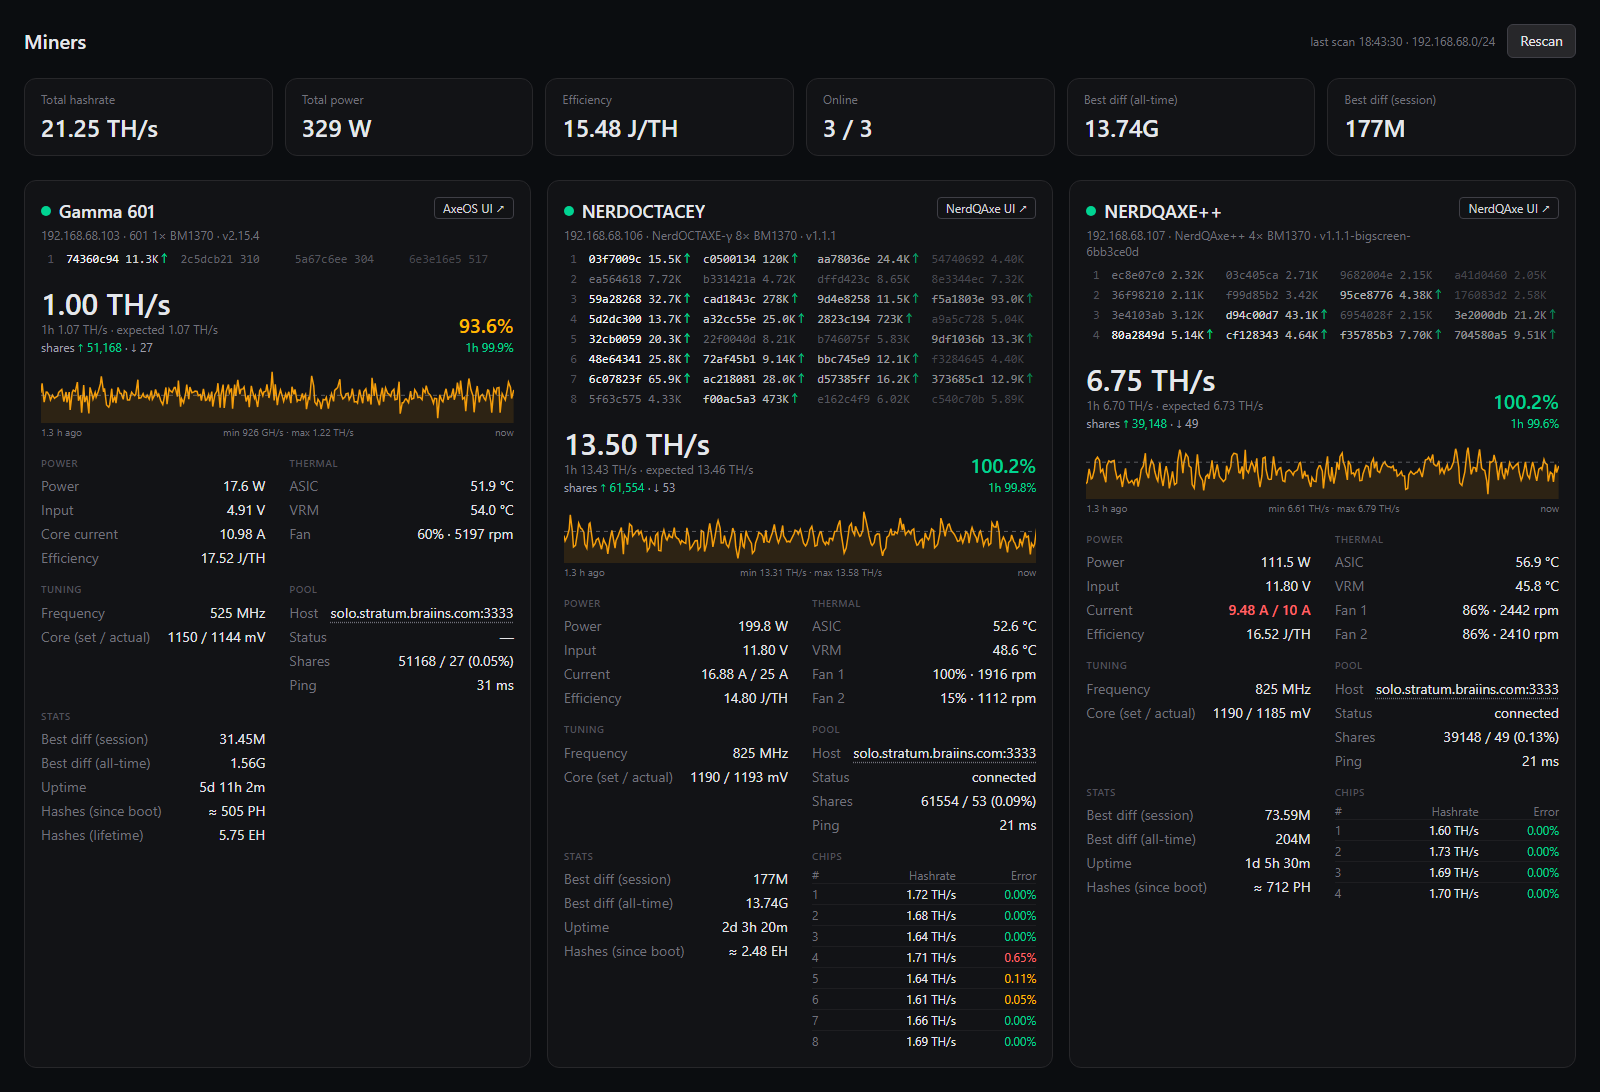
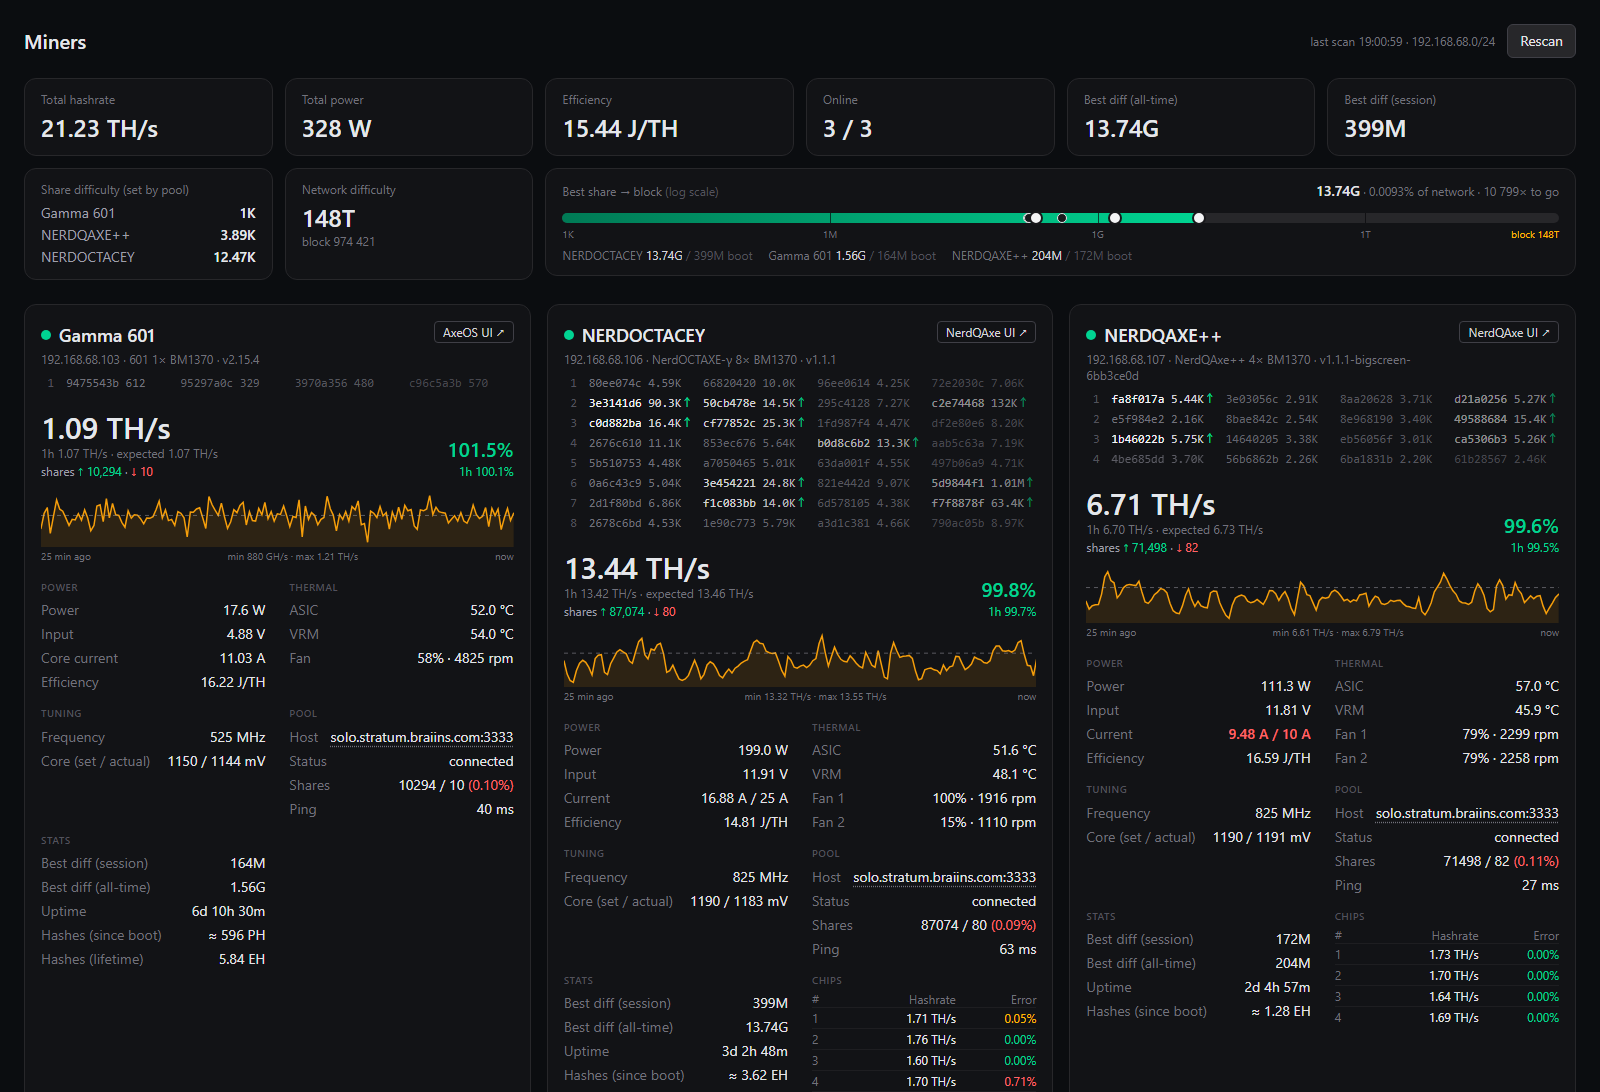
Per-miner share difficulty, AxeOS pool status, red reject counts
- Share difficulty tile lists each miner's pool-assigned target instead of a bare range.
- AxeOS 2.x pool status from poolConnectionInfo (it has no connected flag).
- Rejected share count and reject percentage shown in red when non-zero.
- README: difficulty row in the feature list, refreshed screenshots.

diff --git a/app/page.tsx b/app/page.tsx
@@ -74,7 +74,6 @@ export default function Home() {
     return vals.length ? Math.min(...vals) : undefined;
   };
   const poolDiffMin = minOf((m) => m.snapshot?.poolDifficulty);
-  const poolDiffMax = maxOf((m) => m.snapshot?.poolDifficulty);
   const networkDiff = maxOf((m) => m.snapshot?.networkDifficulty);
   const blockHeight = maxOf((m) => m.snapshot?.blockHeight);
   const scanning = rescanning || data?.scan.scanning;
@@ -111,11 +110,23 @@ export default function Home() {
 
       {networkDiff && (
         <section className="-mt-3 mb-6 grid grid-cols-2 gap-3 md:grid-cols-3 xl:grid-cols-6">
-          <Tile
-            label="Pool difficulty"
-            value={poolDiffMin === poolDiffMax ? fmtDiffShort(poolDiffMin) : `${fmtDiffShort(poolDiffMin)}–${fmtDiffShort(poolDiffMax)}`}
-            sub="share target"
-          />
+          <div
+            className="rounded-xl border border-zinc-800 bg-zinc-900/60 px-4 py-3"
+            title="Minimum difficulty a nonce needs to be sent to the pool as a share. The pool sets it per miner (vardiff) to match its hashrate."
+          >
+            <div className="text-xs text-zinc-500">Share difficulty (set by pool)</div>
+            <div className="mt-1.5 space-y-0.5 text-sm tabular-nums">
+              {[...online]
+                .filter((m) => m.snapshot!.poolDifficulty)
+                .sort((a, b) => a.snapshot!.poolDifficulty! - b.snapshot!.poolDifficulty!)
+                .map((m) => (
+                  <div key={m.id} className="flex justify-between gap-2">
+                    <span className="truncate text-zinc-400">{m.hostname}</span>
+                    <span className="font-semibold">{fmtDiffShort(m.snapshot!.poolDifficulty)}</span>
+                  </div>
+                ))}
+            </div>
+          </div>
           <Tile
             label="Network difficulty"
             value={fmtDiff(networkDiff)}

diff --git a/components/MinerCard.tsx b/components/MinerCard.tsx
@@ -147,7 +147,7 @@ export function MinerCard({ m, now, feed }: { m: MinerView; now: number; feed?: 
           <div className="mt-0.5 text-xs tabular-nums text-zinc-400" title="shares since boot: accepted / rejected">
             shares <span className="text-emerald-400">↑ {s.pool.accepted.toLocaleString("en-US")}</span>
             {" · "}
-            <span className={rejPct > 1 ? "text-red-400" : "text-zinc-400"}>↓ {s.pool.rejected.toLocaleString("en-US")}</span>
+            <span className={s.pool.rejected > 0 ? "text-red-400" : "text-zinc-400"}>↓ {s.pool.rejected.toLocaleString("en-US")}</span>
           </div>
         </div>
         <div className="text-right tabular-nums">
@@ -200,7 +200,17 @@ export function MinerCard({ m, now, feed }: { m: MinerView; now: number; feed?: 
             }
             warn={s.pool.connected === false}
           />
-          <Stat label="Shares" value={`${s.pool.accepted} / ${s.pool.rejected} (${rejPct.toFixed(2)}%)`} warn={rejPct > 1} />
+          <Stat
+            label="Shares"
+            value={
+              <>
+                {s.pool.accepted} / {s.pool.rejected}{" "}
+                <span className={s.pool.rejected > 0 ? `text-red-400 ${rejPct > 1 ? "font-semibold" : ""}` : undefined}>
+                  ({rejPct.toFixed(2)}%)
+                </span>
+              </>
+            }
+          />
           <Stat label="Ping" value={fmt(s.pool.pingMs, 0, " ms")} />
         </Section>
 

diff --git a/lib/miner-api.ts b/lib/miner-api.ts
@@ -157,7 +157,13 @@ function normalize(info: Json, dash: Json | null): MinerSnapshot {
       host,
       port,
       user: typeof user === "string" ? user : undefined,
-      connected: typeof pool?.connected === "boolean" ? pool.connected : undefined,
+      connected:
+        typeof pool?.connected === "boolean"
+          ? pool.connected
+          : // AxeOS 2.x has no flag; poolConnectionInfo is the socket's family ("IPv4"/"IPv6") while connected.
+            typeof info.poolConnectionInfo === "string"
+            ? /^IPv[46]/.test(info.poolConnectionInfo)
+            : undefined,
       usingFallback,
       accepted: num(pool?.accepted) ?? num(info.sharesAccepted) ?? 0,
       rejected: num(pool?.rejected) ?? num(info.sharesRejected) ?? 0,

diff --git a/tests/dashboard.spec.ts b/tests/dashboard.spec.ts
@@ -29,6 +29,7 @@ test("API: miners are discovered and report sane data", async ({ request }) => {
     expect(ratio).toBeGreaterThan(0.7);
     expect(ratio).toBeLessThan(1.3);
     expect(s.pool.host).toBeTruthy();
+    expect(s.pool.connected, `${m.hostname} pool connected`).toBe(true);
     // Bitcoin network difficulty is in the 1e13..1e16 range; pool share target is far below.
     expect(s.networkDifficulty!).toBeGreaterThan(1e13);
     expect(s.networkDifficulty!).toBeLessThan(1e16);

diff --git a/README.md b/README.md
@@ -34,6 +34,9 @@ and a Bitaxe Gamma 601 on AxeOS v2.15.
 
 - Summary: total hashrate, total power, overall J/TH, miners online, best difficulty
   (all-time and session).
+- Difficulty row: each miner's share difficulty (set by the pool), the network difficulty
+  with the current block height, and a log-scale bar from share to block difficulty
+  marking every miner's best share (all-time and since boot).
 - A card per miner:
   - online/offline status (offline after 30 s without a response)
   - current and 1 h hashrate vs expected (`frequency × smallCoreCount × asicCount / 1000`)
